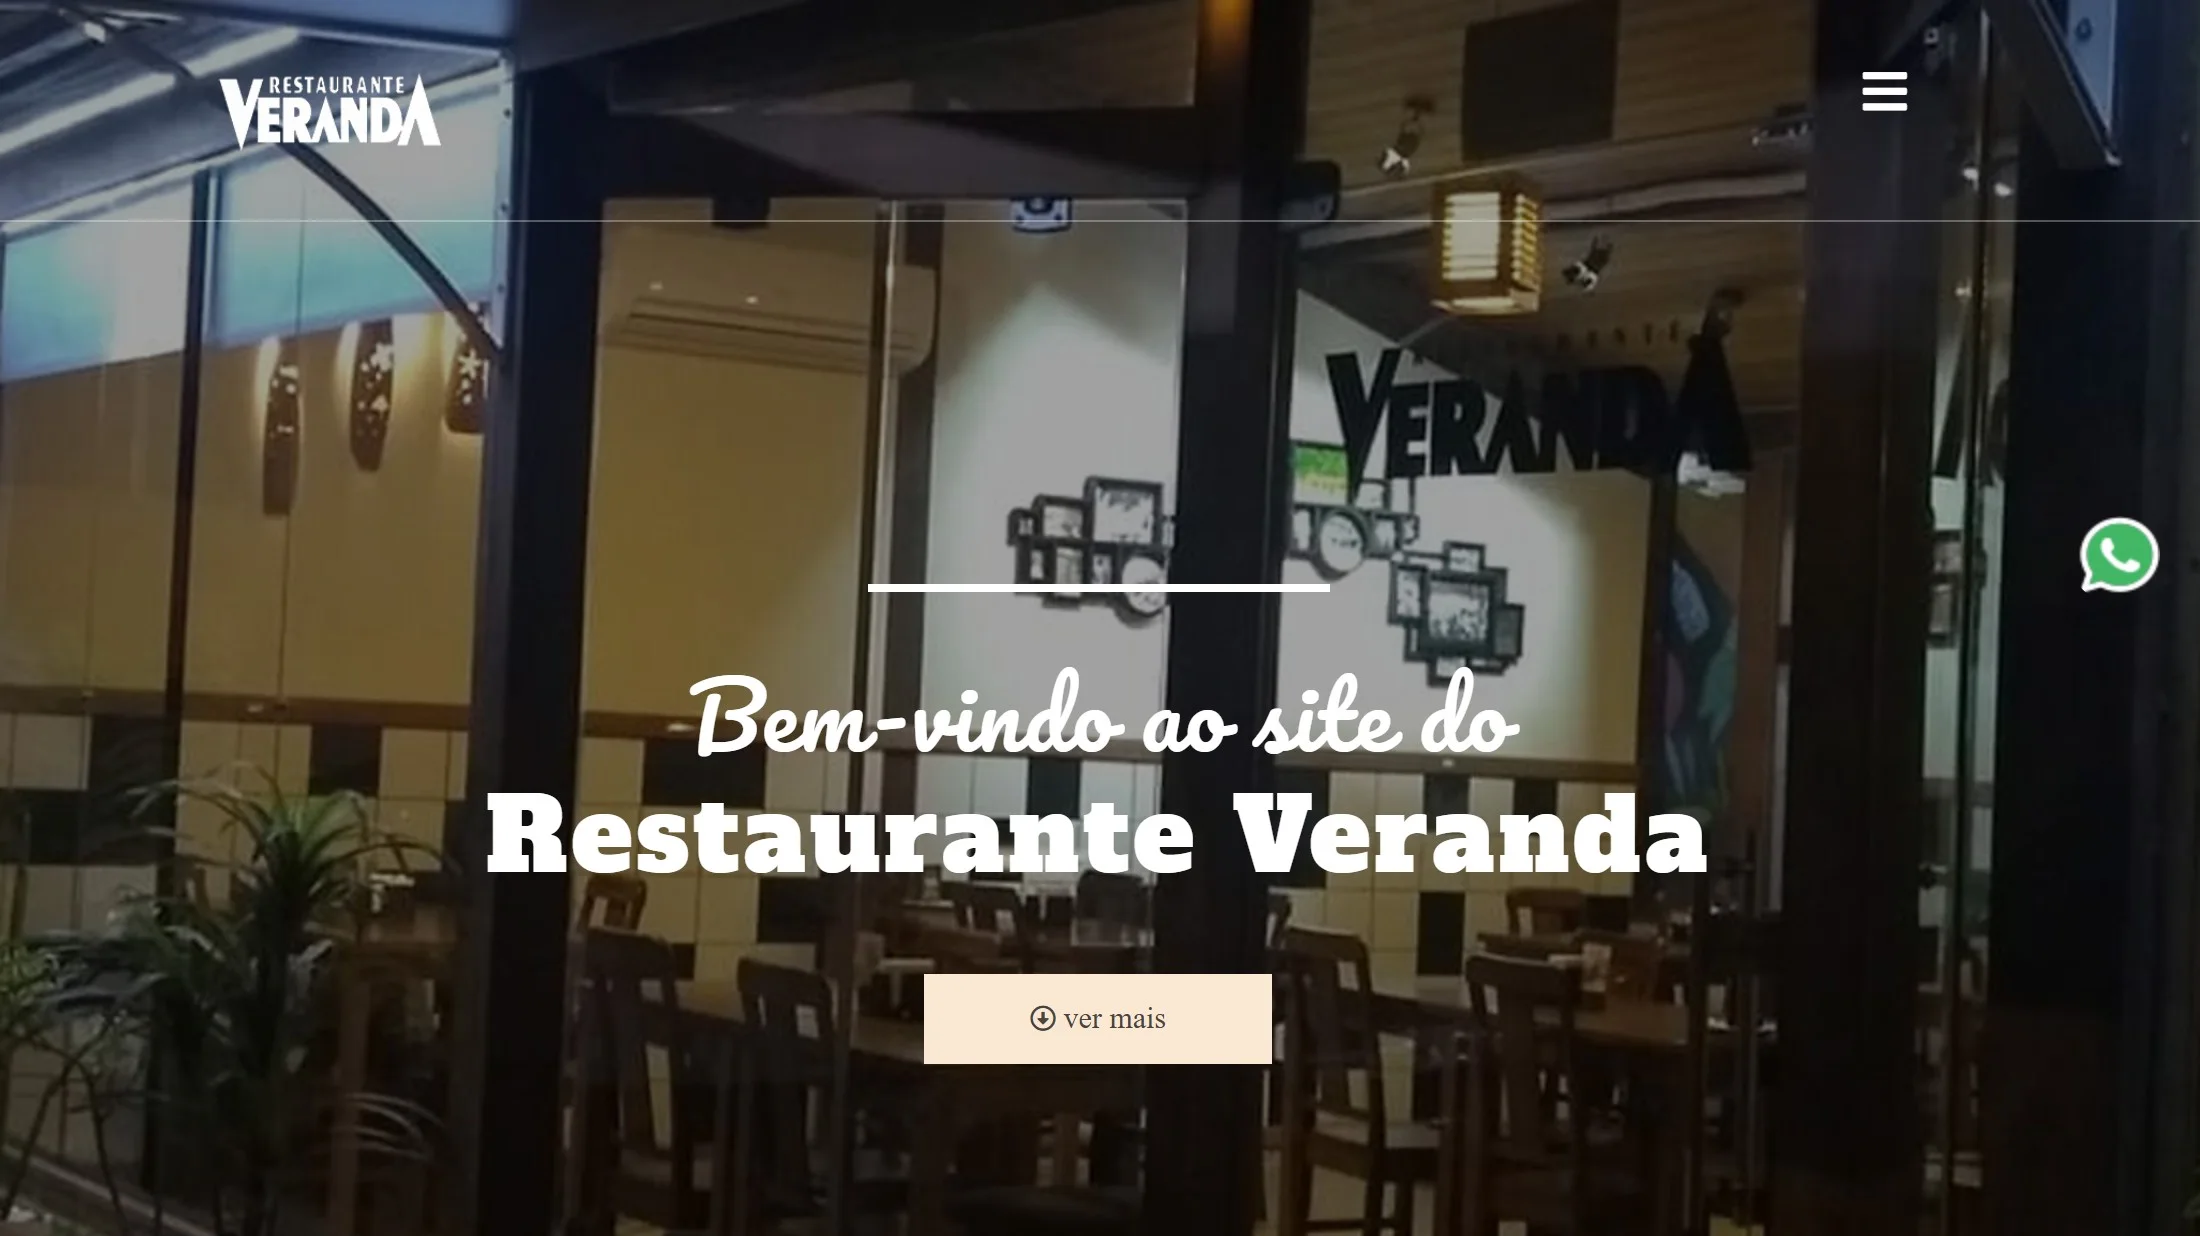
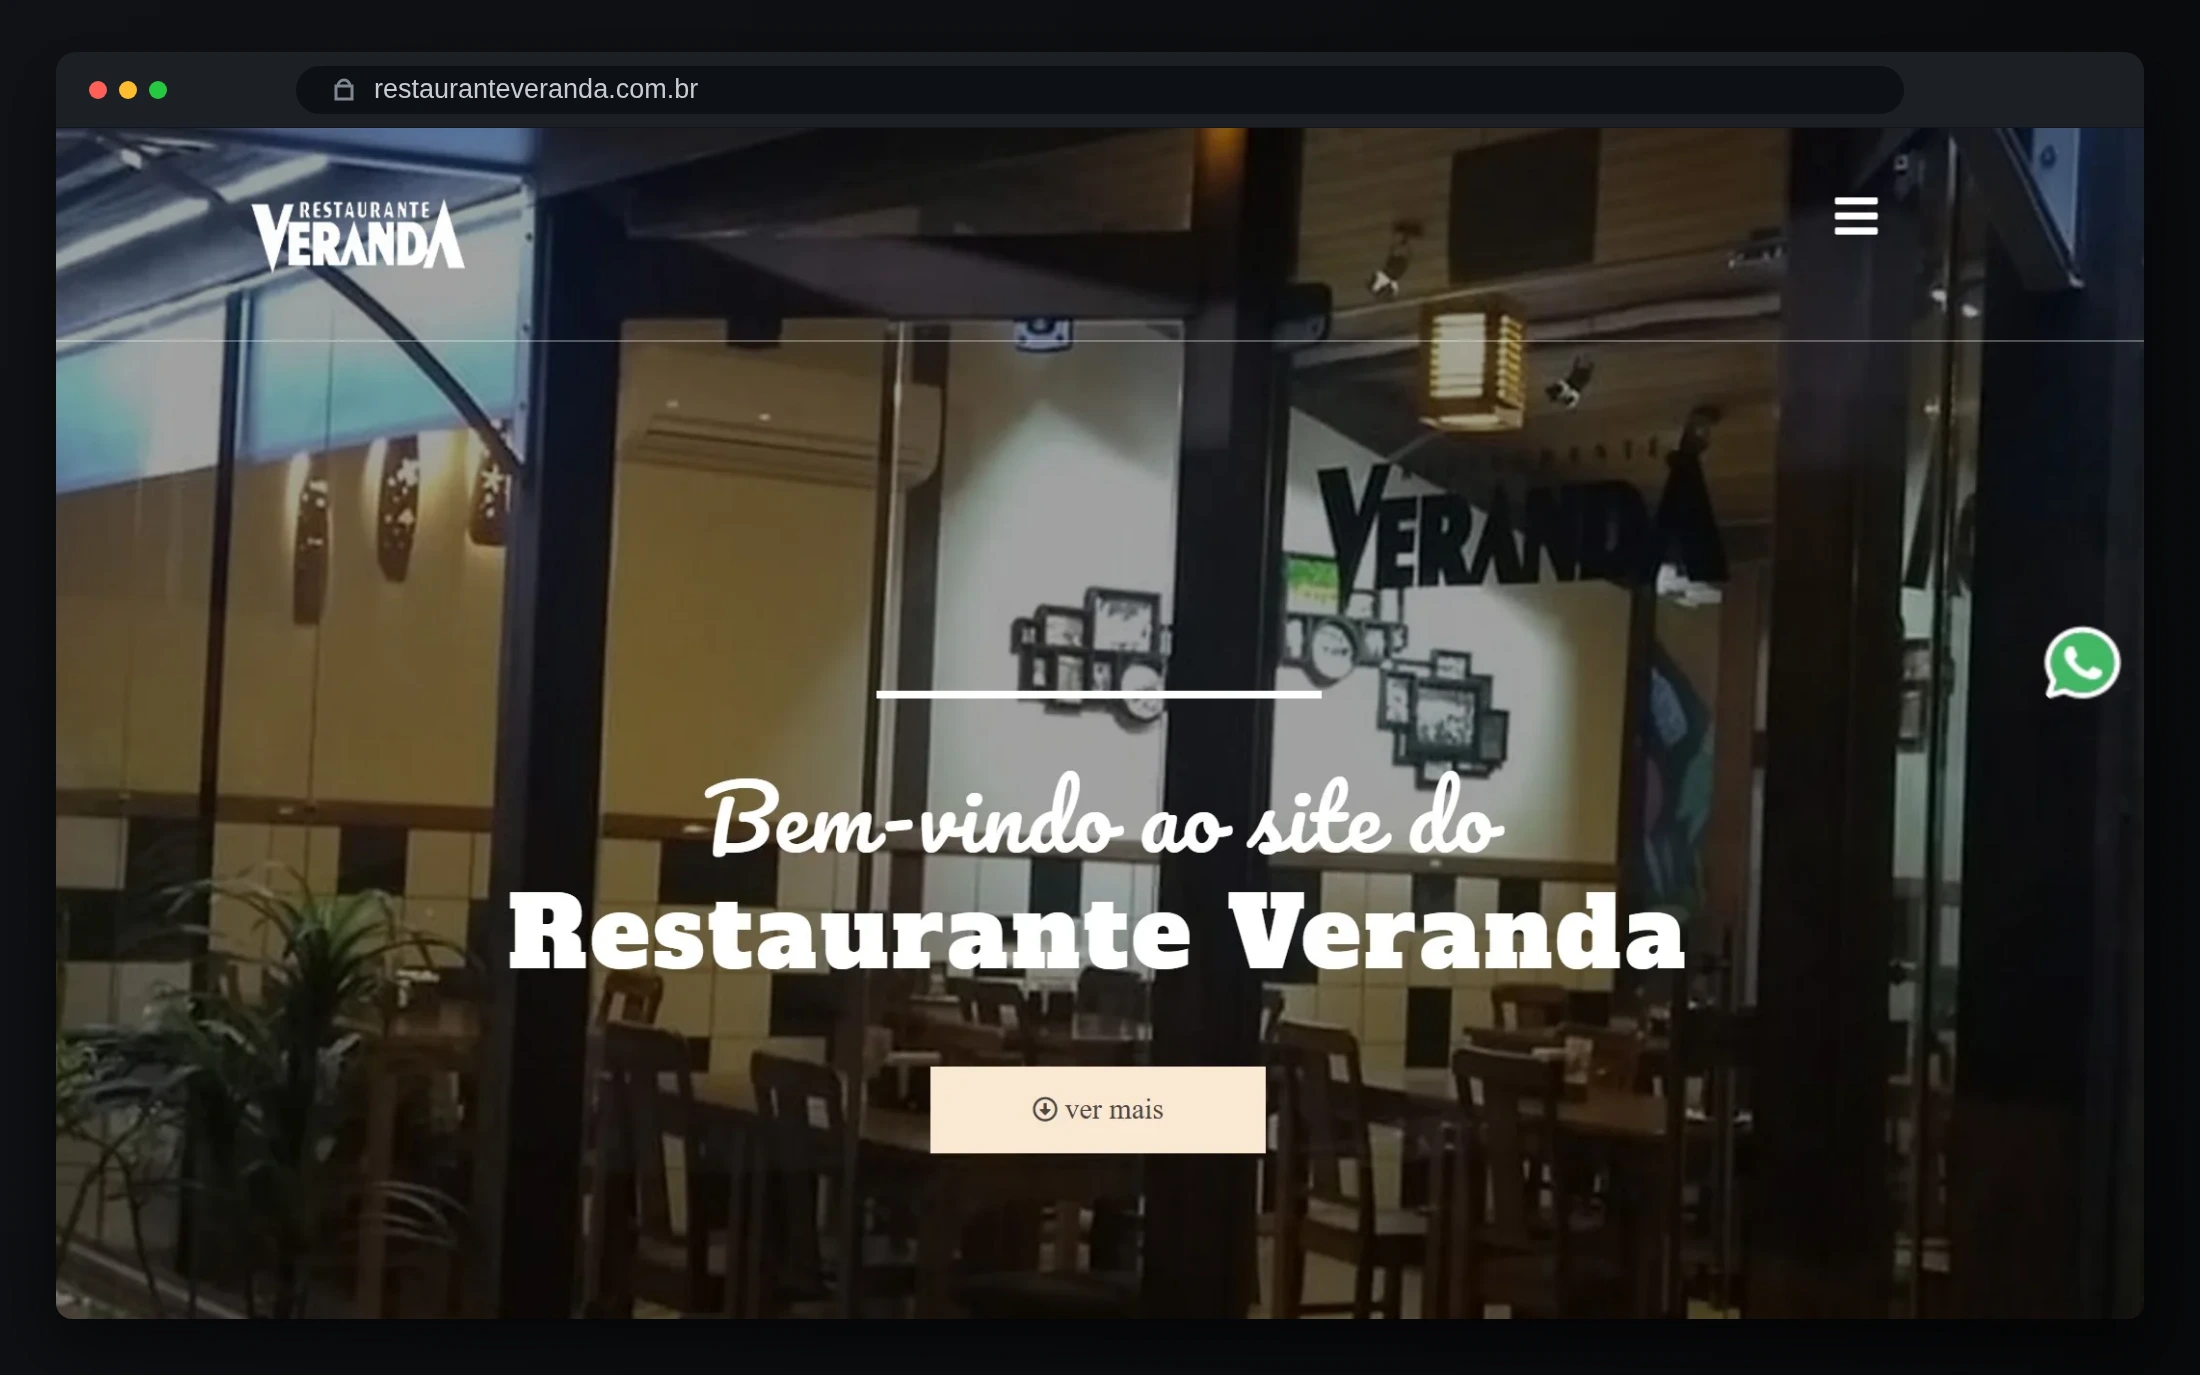
Frame every project thumbnail in a unified browser-window style
Apply the LRC Empire desktop browser-window treatment to all six
project thumbnails so the gallery reads as one consistent set: each
real screenshot now sits inside a browser window (traffic lights and an
address bar with the site's domain) on a dark stage.

- Regenerate all six thumbnails at 2200x1375 (matches the 1.6 card
  ratio, so nothing is cropped)
- Remove the now-redundant DOM/CSS project-bar (the browser chrome is
  baked into each image, so keeping it would double the bar)
- Update the pre-rendered <img> height to 1375

Claude-Session: https://claude.ai/code/session_01G3pUJgQyw6uz5wfkgBv3ke

diff --git a/render.js b/render.js
@@ -8,14 +8,6 @@ export const escapeHtml = (value = '') => String(value)
   .replaceAll('"', '&quot;')
   .replaceAll("'", '&#039;');
 
-const displayHost = (url) => {
-  try {
-    return new URL(url).hostname.replace('www.', '');
-  } catch {
-    return url;
-  }
-};
-
 const caseStudyBlock = (project) => {
   if (!project.caseStudy) return '';
   const services = project.caseStudy.services
@@ -43,11 +35,7 @@ export const projectCard = (project, position = 0) => {
     <article class="project reveal" data-project-card>
       <a class="project-shot" href="${escapeHtml(project.url)}" target="_blank" rel="noopener noreferrer">
         <span class="visually-hidden">Open ${escapeHtml(project.name)} website</span>
-        <span class="project-bar" aria-hidden="true">
-          <i></i><i></i><i></i>
-          <em>${escapeHtml(displayHost(project.url))}</em>
-        </span>
-        <img src="${escapeHtml(project.image)}" alt="${escapeHtml(project.imageAlt)}" width="2200" height="1236" ${loading} decoding="async">
+        <img src="${escapeHtml(project.image)}" alt="${escapeHtml(project.imageAlt)}" width="2200" height="1375" ${loading} decoding="async">
       </a>
 
       <div class="project-info">

diff --git a/styles.css b/styles.css
@@ -167,27 +167,6 @@ button, a { -webkit-tap-highlight-color: transparent; }
 }
 .project:hover { border-color: var(--line-strong); transform: translateY(-2px); }
 .project-shot { position: relative; display: block; background: #0e1014; }
-.project-bar {
-  display: flex;
-  align-items: center;
-  gap: 5px;
-  height: 30px;
-  padding-inline: 12px;
-  border-bottom: 1px solid var(--line);
-  background: var(--surface-2);
-}
-.project-bar i { width: 6px; height: 6px; border-radius: 50%; background: #4b5058; }
-.project-bar i:first-child { background: var(--yellow); }
-.project-bar em {
-  margin-left: 8px;
-  overflow: hidden;
-  color: var(--dim);
-  font-family: var(--mono);
-  font-size: .58rem;
-  font-style: normal;
-  text-overflow: ellipsis;
-  white-space: nowrap;
-}
 .project-shot img {
   width: 100%;
   height: auto;
